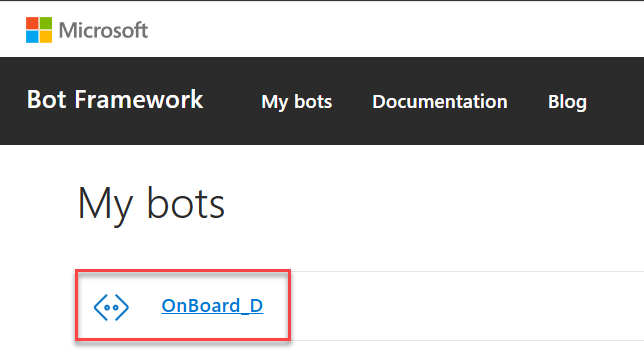
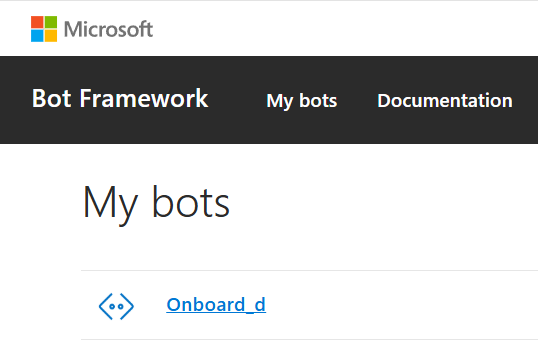
- Updated screenshots

diff --git a/documentation/docusaurus.config.ts b/documentation/docusaurus.config.ts
@@ -8,7 +8,7 @@ import dotenv from "dotenv";
 dotenv.config();
 
 const config: Config = {
-  title: 'OnBoard_D AI Agent Solution',
+  title: 'Onboard_D AI Agent Solution',
   tagline: 'AI Agents Hackathon',
   favicon: 'img/favicon.ico',
   url: 'http://localhost:3000',
@@ -41,7 +41,7 @@ const config: Config = {
 
   themeConfig: {
     navbar: {
-      title: 'OnBoard_D AI Agent Solution',
+      title: 'Onboard_D AI Agent Solution',
       logo: {
         alt: 'Logo',
         src: 'img/onboard_d.png',

diff --git a/README.md b/README.md
@@ -1,4 +1,4 @@
-# Microsoft AI Agents Hackathon 2025 - OnBoard_D solution
+# Microsoft AI Agents Hackathon 2025 - Onboard_D solution
 
 Meet **Onboard-D**, an amployee onboarding AI solution built for the Microsoft AI Agents Hackathon 2025.
 
@@ -14,7 +14,7 @@ Meet **Onboard-D**, an amployee onboarding AI solution built for the Microsoft A
 
 ## What is it?
 
-Onboarding processes can sometimes be overwhelming for new employees, with numerous tasks to complete, trainings to attend, and people to meet. Not all companies have a clear onboarding process or a dedicated coach to guide new hires effectively. To ensure employees are not left to navigate this alone and to provide a great experience, we created **OnBoard_D**. This dedicated AI assistant helps new employees get started by answering frequently asked questions and proactively notifying them of tasks they need to complete according to a specific onboarding plan set by the HR department.
+Onboarding processes can sometimes be overwhelming for new employees, with numerous tasks to complete, trainings to attend, and people to meet. Not all companies have a clear onboarding process or a dedicated coach to guide new hires effectively. To ensure employees are not left to navigate this alone and to provide a great experience, we created **Onboard_D**. This dedicated AI assistant helps new employees get started by answering frequently asked questions and proactively notifying them of tasks they need to complete according to a specific onboarding plan set by the HR department.
 
 ### What are features:
 
